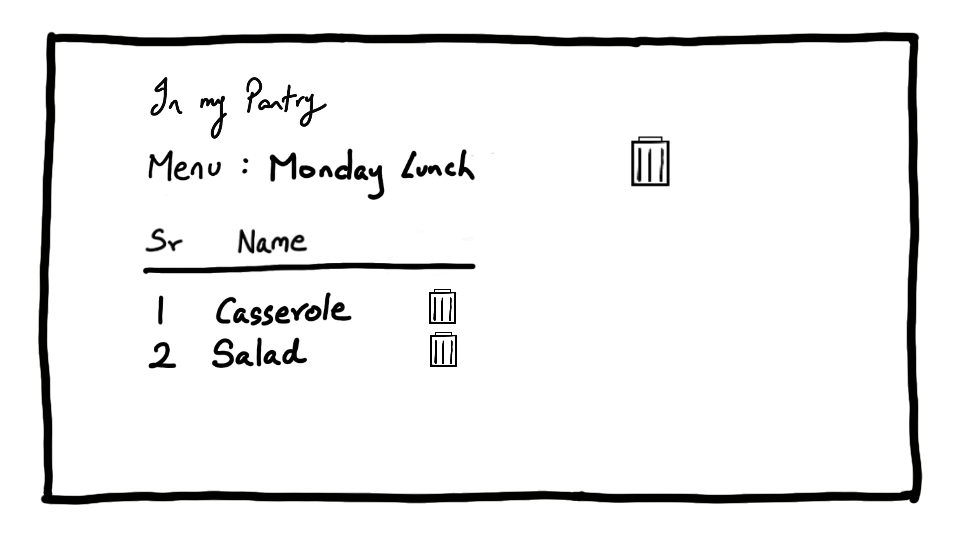
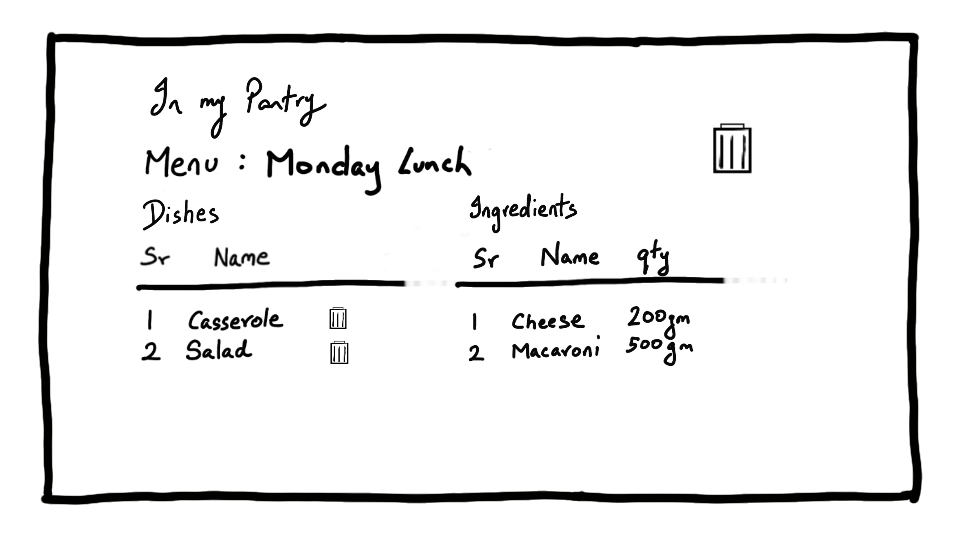
Update the menu page image in whiteboarding

diff --git a/public/content/page-content/design/whiteboarding.md b/public/content/page-content/design/whiteboarding.md
@@ -184,42 +184,48 @@ Clicking on a particular recipe in the menu will lead the user to the recipe pag
 ![Menu](/content/page-content/design/whiteboarding-imgs/menu.png "Menu")
 *Fig. 22: Menu*
 
+![Menu Update Inventory Button](/content/page-content/design/whiteboarding-imgs/menu-update-inventory.png "Menu Update Inventory Button")
+*Fig. 23: Menu Update Inventory Button*
+
+![Menu Attributes](/content/page-content/design/whiteboarding-imgs/menu-attributes.png "Menu Attributes")
+*Fig. 24: Menu Attributes*
+
 ### Inventories
 An inventory stores a list of ingredients available with the user. Instead of constricting the user to just one inventory, we choose to allow the user to create many 'inventories' or lists of ingredients. The user may want to track an inventory at multiple locations invidually, say their grandmother lives next door and they would want to track her inventory too, for her. When designing we may not need a compelling reason to allow the user to do more, but we'll need a compelling reason to restrict the user. But this comes with a tradeoff if the flow doesn't seem natural enough then it can confuse the users.
 
 The inventory list is exactly what the name says, it is a list of inventories that are depicted as a table. The elements in the row may show information about the individual inventories, it can also have action buttons to call the user to perform further action on the element.
 
 ![Inventory List](/content/page-content/design/whiteboarding-imgs/inventory-list.png "Inventory List")
-*Fig. 24: List of Inventories*
+*Fig. 25: List of Inventories*
 
 ![Inventory List Sort](/content/page-content/design/whiteboarding-imgs/sort-inventory-list.png "Inventory List Sort")
-*Fig. 25: Sorting the List of Inventories*
+*Fig. 26: Sorting the List of Inventories*
 
 The 'add an inventory' button above the table creates a new inventory object and adds a pointer to it in the table. 
 
 ![Add Inventory Button](/content/page-content/design/whiteboarding-imgs/inventory-list-add.png "Add Inventory Button")
-*Fig. 26: Add Inventory*
+*Fig. 27: Add Inventory*
 
 But before it can add the inventory object we show display a large box above the content, called a modal, that captures some basic identifying information about the object. This flow forces the user to provide, say, a name for the inventory, if they don't then inventory is not created.
 
 ![New Inventory Modal](/content/page-content/design/whiteboarding-imgs/new-inventory-modal.png "New Inventory Modal")
-*Fig. 27: New Inventory Modal*
+*Fig. 28: New Inventory Modal*
 
 An inventory is a list of available ingredients. A user can add new ingredients to the inventory by clicking on the 'add ingredients' button, depicted by the 'plus' symbol above the table.
 
 ![Inventory](/content/page-content/design/whiteboarding-imgs/inventory.png "Inventory")
-*Fig. 28: Inventory*
+*Fig. 29: Inventory*
 
 The user can launch a search from the inventory page, as per the original idea. However, a constraint added on the search was that it should look for recipes such that there are enough ingredients for all the items in the menu together. To do this, the menu would need to be linked to the search that is about to be launched. To link the menu, again a modal is shown that allows the user to choose the menu they want to link to.
 
 ![Choose Menu Modal](/content/page-content/design/whiteboarding-imgs/choose-menu-modal.png "Choose Menu Modal")
-*Fig. 29: Choose Menu Modal*
+*Fig. 30: Choose Menu Modal*
 
 An alternative idea would be to link the inventory permanently to a menu, and not have a modal everytime we launch a search. In other words the menu linked becomes an attribute of the inventory. This could have the same effect, but this is a good example of how reflecting the real-world relationships when depicting these virtual relationships can help the user understand the system faster and more intuitively. In the real-world a menu is not an attribute of an inventory, one could have potentially different menus that are created from the same inventory, for example, given bread and eggs, a user could decide to have two alternative menus, one that has an omelette sandwich, and the other that has scrambled eggs on toast. Linking a menu as an attribute of an inventory removes the transient - short-lived - nature of the relationship and between a menu and an inventory and makes having a world where multiple menus are linked to an inventory as attributes is hard to understand for user.
 
 ## Flow Diagram
 ![Flow Diagram](/content/page-content/design/whiteboarding-imgs/flow-diagram.png "Flow Diagram")
-*Fig. 30: Flow Diagram*
+*Fig. 31: Flow Diagram*
 
 ## Negative Flows
 
